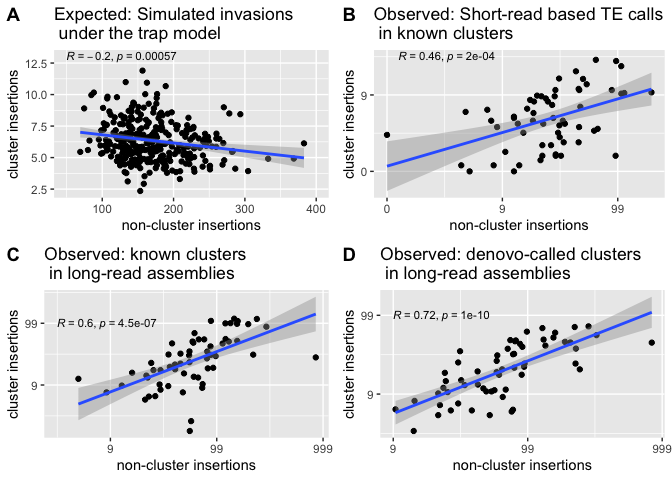
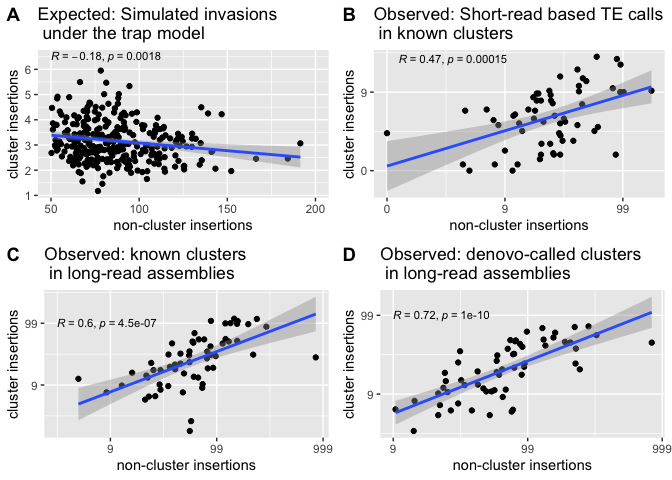
main correlation figure: adjusted expectation and short-read approach to counts per haploid

diff --git a/rmd-scripts/main-cor.md b/rmd-scripts/main-cor.md
@@ -46,10 +46,12 @@ ts$tesc<-ts$tes-ts$cluins
 t<-subset(ts,select = c("tesc","cluins"))
 names(t)<-c("global","local")
 
+t$global<-t$global/2 #for halpoid abundance
+t$local<-t$local/2 #for halpoid abundance
 
 
-gS<-ggplot(t, aes(x=global, y=local)) + geom_point()+stat_cor(method = "pearson", label.x = 50.1, label.y = 13.0,size=3)+ 
-  geom_smooth(method='lm', formula= y~x)+xlab("non-cluster insertions")+ylab("cluster insertions")+xlim(50,400)+ggtitle("Expected: Simulated invasions \n under the trap model")
+gS<-ggplot(t, aes(x=global, y=local)) + geom_point()+stat_cor(method = "pearson", label.x = 50.1, label.y = 6.5,size=3)+ 
+  geom_smooth(method='lm', formula= y~x)+xlab("non-cluster insertions")+ylab("cluster insertions")+xlim(50,200)+ggtitle("Expected: Simulated invasions \n under the trap model")
 
 
 
@@ -74,8 +76,22 @@ names(infoP)<-c("TE","AF")
 
 ###popTE2:
 
-t<-read.table("/Users/filipwierzbicki/Desktop/trap_model/analysis/abu/popTE2/sep.mf30_brenecluster.forR")
+#t<-read.table("/Users/filipwierzbicki/Desktop/trap_model/analysis/abu/popTE2/sep.mf30_brenecluster.forR")
+#names(t)<-c("count","id","TE","region")
+
+tseg<-read.table("/Users/filipwierzbicki/Desktop/trap_model/analysis/abu/popTE2/haploid_counts/sep.mf30_brenecluster-seg")
+tfix<-read.table("/Users/filipwierzbicki/Desktop/trap_model/analysis/abu/popTE2/haploid_counts/sep.mf30_brenecluster-fixed")
+t<-rbind(tseg,tfix)
+names(t)<-c("count","id","TE","region","id2")
+for (sid in unique(t$id2)) { 
+  i <- t$id2 == sid
+  a = sum(t$count[i])
+  t$sum[i] = a
+}
+t<-subset(t,select=c("sum","id","TE","region"))
+t<-unique(t)
 names(t)<-c("count","id","TE","region")
+t$count<-round(t$count+0.00000001)
 
 t$id2<-paste(t$id,t$TE,sep="_")
 
@@ -128,7 +144,7 @@ cC$cluster<-log10(cC$avrcl+1)
 cC$noncluster<-log10(cC$avrrest+1)
 
 
-gPop<-ggplot(cC,aes(x=noncluster,y=cluster))+geom_point()+stat_cor(method = "pearson", label.x = 0.1, label.y = 1.5,size=3)+ 
+gPop<-ggplot(cC,aes(x=noncluster,y=cluster))+geom_point()+stat_cor(method = "pearson", label.x = 0.1, label.y = 1.42,size=3)+ 
   geom_smooth(method='lm', formula= y~x)+xlab("non-cluster insertions")+ylab("cluster insertions")+scale_x_continuous(breaks=c(0,1,2,3),labels=c("0","9","99","999"))+scale_y_continuous(breaks=c(0,1,2,3),labels=c("0","9","99","999"))+ggtitle("Observed: Short-read based TE calls \n in known clusters")
 
 
@@ -285,7 +301,15 @@ gP<-ggplot(cC,aes(x=noncluster,y=cluster))+geom_point()+stat_cor(method = "pears
 gcor<-ggarrange(gS, gPop, gC, gP,
                 labels = c("A", "B", "C","D"),
                 ncol = 2, nrow = 2)
+```
 
+    ## Warning: Removed 10 rows containing non-finite values (stat_cor).
+
+    ## Warning: Removed 10 rows containing non-finite values (stat_smooth).
+
+    ## Warning: Removed 10 rows containing missing values (geom_point).
+
+``` r
 plot(gcor)
 ```
 
